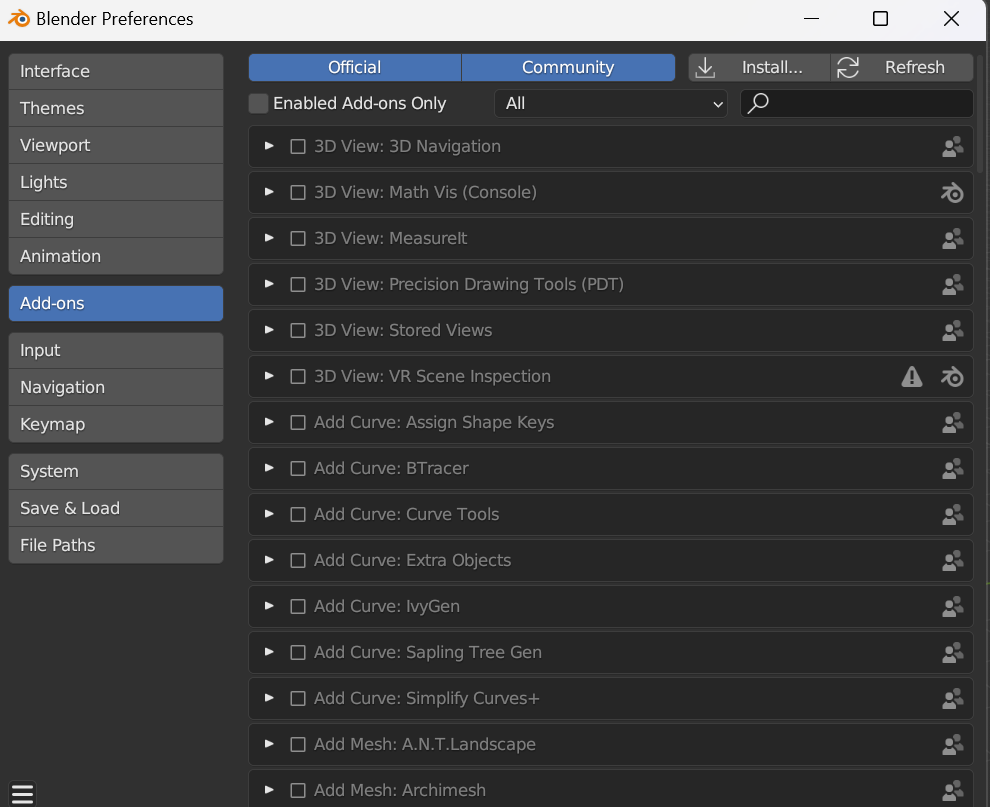
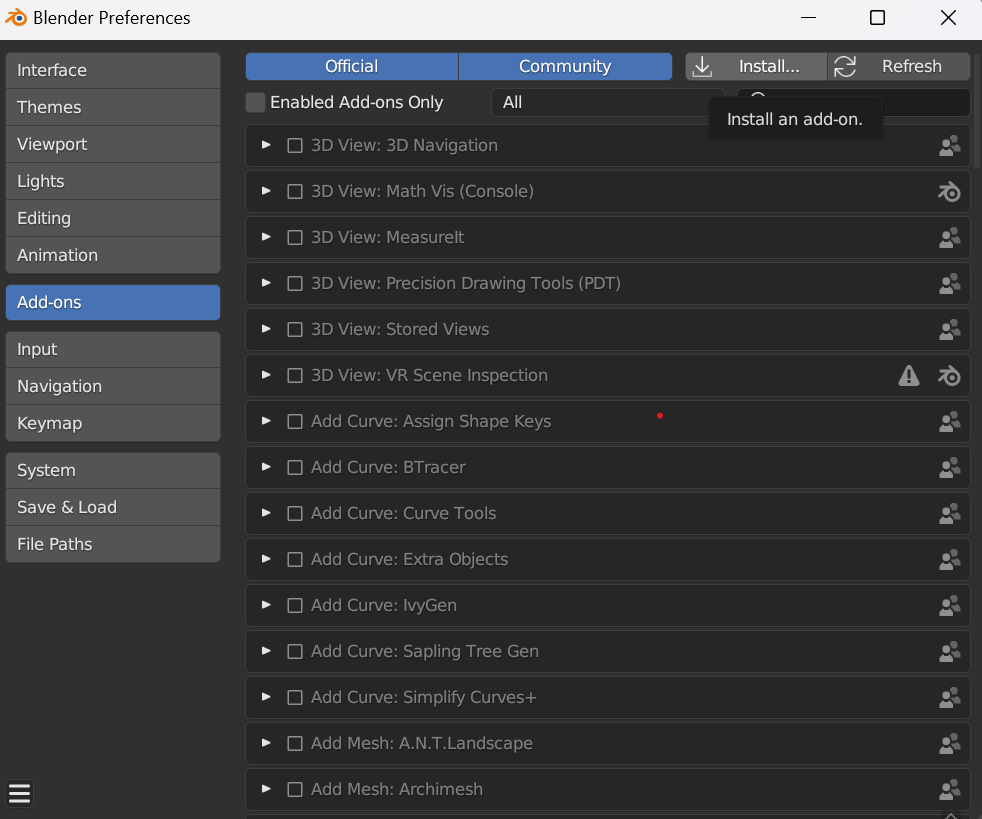
add additional download tips

diff --git a/README.md b/README.md
@@ -7,6 +7,8 @@
 - You're all good to go!
 - Alternatively: you can copy-paste the code from kaedim_panel.py into a Blender Scripting Workspace. Once you run the script, the Kaedim Panel will work as expected
   
+![download1](images/download1.png)
+![download2](images/download2.png)
 ![installation1](images/installation1.png)
 ![installation2](images/installation2.png)
 ![installation3](images/installation3.png)
